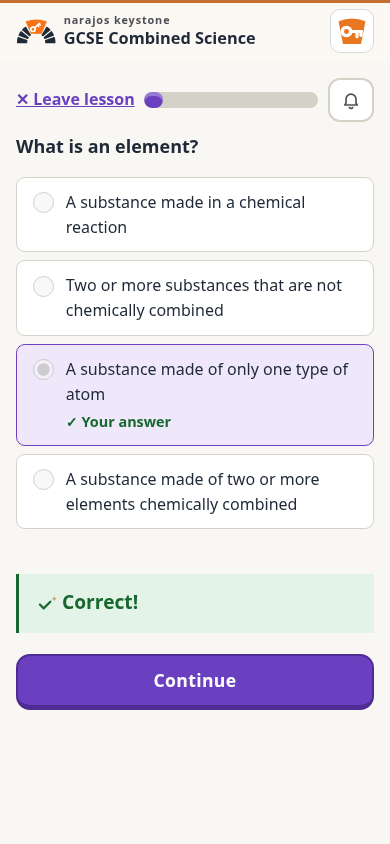
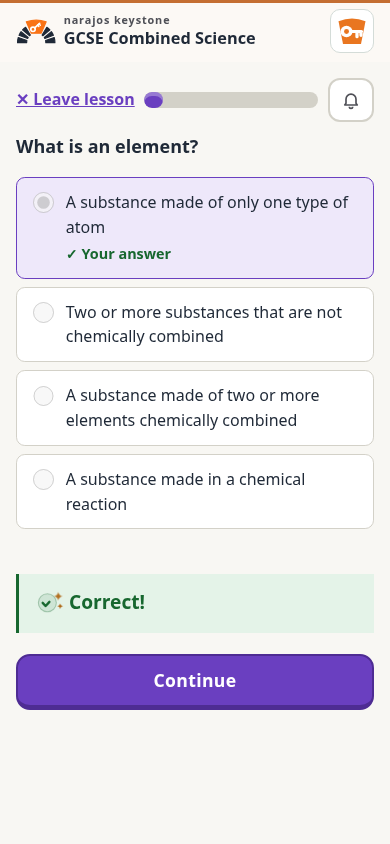
Give learning feedback a brighter, livelier finish

diff --git a/public/assets/learning-feedback.css b/public/assets/learning-feedback.css
@@ -1,6 +1,6 @@
 .learning-feedback {
   --feedback-green: var(--good, #17672f);
-  --feedback-gold: #a96614;
+  --feedback-gold: #ad630f;
 }
 
 .learning-feedback:not([data-learning-feedback="complete"]) {
@@ -9,22 +9,40 @@
 
 .learning-feedback__icon {
   display: inline-block;
-  width: 1.45rem;
-  height: 1.2rem;
-  margin-inline-end: .24rem;
-  vertical-align: -.25rem;
+  width: 1.9rem;
+  height: 1.55rem;
+  margin-inline-end: .22rem;
+  vertical-align: -.38rem;
   pointer-events: none;
+}
+
+.learning-feedback__mark {
+  color: var(--feedback-green);
+}
+
+[data-learning-feedback="complete"] .learning-feedback__mark {
+  color: var(--feedback-gold);
+}
+
+.learning-feedback__disc {
+  fill: currentColor;
+  fill-opacity: .10;
+  stroke: currentColor;
+  stroke-opacity: .3;
 }
 
 .learning-feedback__tick {
   fill: none;
-  stroke: var(--feedback-green);
+  stroke: currentColor;
   stroke-width: 2.3;
   stroke-linecap: round;
   stroke-linejoin: round;
 }
 
-.learning-feedback__star,
+.learning-feedback__star {
+  fill: currentColor;
+}
+
 .learning-feedback__accent {
   fill: var(--feedback-gold);
 }
@@ -39,29 +57,49 @@
 .learning-feedback__accent,
 .learning-feedback__glints {
   opacity: 0;
+}
+
+.learning-feedback__mark,
+.learning-feedback__accent,
+.learning-feedback__glints {
   transform-box: fill-box;
   transform-origin: center;
 }
 
 @supports (color: light-dark(black, white)) {
   .learning-feedback {
-    --feedback-gold: light-dark(#a96614, #e5ad60);
+    --feedback-gold: light-dark(#ad630f, #f5b965);
   }
 }
 
 @media (prefers-reduced-motion: no-preference) {
+  [data-feedback-animate] .learning-feedback__mark {
+    animation: learning-feedback-pop 480ms ease-out both;
+  }
+
   [data-feedback-animate] .learning-feedback__tick {
     animation: learning-feedback-tick 420ms ease-out both;
   }
 
-  [data-feedback-animate] .learning-feedback__accent {
-    animation: learning-feedback-sparkle 560ms ease-out both;
+  [data-feedback-animate] .learning-feedback__accent,
+  [data-feedback-animate] .learning-feedback__glints {
+    animation: learning-feedback-sparkle 620ms ease-out both;
   }
 
   [data-feedback-animate]:not([data-learning-feedback="correct"]) .learning-feedback__accent,
   [data-feedback-animate] .learning-feedback__glints {
-    animation: learning-feedback-sparkle 720ms ease-out both;
+    animation-duration: 740ms;
   }
+
+  [data-feedback-animate] .learning-feedback__accent--small {
+    animation-delay: 45ms;
+  }
+}
+
+@keyframes learning-feedback-pop {
+  from { transform: scale(.78); }
+  45% { transform: scale(1.11); }
+  to { transform: scale(1); }
 }
 
 @keyframes learning-feedback-tick {
@@ -70,15 +108,16 @@
 }
 
 @keyframes learning-feedback-sparkle {
-  from { opacity: 0; transform: scale(.5); }
-  35% { opacity: .9; transform: scale(1); }
-  to { opacity: 0; transform: scale(.85); }
+  from { opacity: 0; transform: scale(.45); }
+  36% { opacity: 1; transform: scale(1.14); }
+  to { opacity: 0; transform: scale(.72); }
 }
 
 @media (forced-colors: active) {
-  .learning-feedback__tick,
+  .learning-feedback__mark,
+  [data-learning-feedback="complete"] .learning-feedback__mark { color: CanvasText; }
+
   .learning-feedback__glints { stroke: CanvasText; }
 
-  .learning-feedback__star,
   .learning-feedback__accent { fill: CanvasText; }
 }

diff --git a/public/assets/learning-feedback.js b/public/assets/learning-feedback.js
@@ -6,10 +6,12 @@
     corrected: "You corrected your mistake!",
     complete: "Activity complete"
   };
-  const tick = '<path class="learning-feedback__tick" d="m5 11 4 4 8-8" pathLength="1"/>';
-  const star = '<path class="learning-feedback__star" d="M11 4c.7 4 2 5.3 6 6-4 .7-5.3 2-6 6-.7-4-2-5.3-6-6 4-.7 5.3-2 6-6Z"/>';
-  const accent = '<path class="learning-feedback__accent" d="M20 2c.3 1.9 1.1 2.7 3 3-1.9.3-2.7 1.1-3 3-.3-1.9-1.1-2.7-3-3 1.9-.3 2.7-1.1 3-3Z"/>';
-  const glints = '<path class="learning-feedback__glints" d="m3 5-1-2m17 13 2 1"/>';
+  const tick = '<path class="learning-feedback__tick" d="m8.5 13.5 2.8 3 5.6-6" pathLength="1"/>';
+  const star = '<path class="learning-feedback__star" d="M13 7.5c.7 3.8 2.2 5.3 6 6-3.8.7-5.3 2.2-6 6-.7-3.8-2.2-5.3-6-6 3.8-.7 5.3-2.2 6-6Z"/>';
+  const disc = '<circle class="learning-feedback__disc" cx="13" cy="13.5" r="8.7"/>';
+  const accents = '<path class="learning-feedback__accent" d="M24.5 2.5a5 5 0 0 0 4 4 5 5 0 0 0-4 4 5 5 0 0 0-4-4 5 5 0 0 0 4-4Z"/>' +
+    '<path class="learning-feedback__accent learning-feedback__accent--small" d="M26.5 14.5a3 3 0 0 0 2.5 2.5 3 3 0 0 0-2.5 2.5A3 3 0 0 0 24 17a3 3 0 0 0 2.5-2.5Z"/>';
+  const glints = '<path class="learning-feedback__glints" d="M5 5 3.4 3.6M4.4 17l-2 .8M20.2 20.6l2 1.6"/>';
 
   function praiseFor(key) {
     let index = Number.isSafeInteger(key) ? key : 0;
@@ -23,8 +25,9 @@
     if (kind !== "correct" && !Object.hasOwn(labels, kind)) return "";
     const text = String(label ?? (kind === "correct" ? praiseFor(key) : labels[kind]))
       .replace(/&/g, "&amp;").replace(/</g, "&lt;").replace(/>/g, "&gt;");
-    const icon = (kind === "complete" ? star : tick) + accent + (kind === "correct" ? "" : glints);
-    return `<span class="learning-feedback" data-learning-feedback="${kind}"${animate ? " data-feedback-animate" : ""}><svg class="learning-feedback__icon" viewBox="0 0 24 20" aria-hidden="true" focusable="false">${icon}</svg>${text}</span>`;
+    const mark = `<g class="learning-feedback__mark">${disc}${kind === "complete" ? star : tick}</g>`;
+    const icon = mark + accents + (kind === "correct" ? "" : glints);
+    return `<span class="learning-feedback" data-learning-feedback="${kind}"${animate ? " data-feedback-animate" : ""}><svg class="learning-feedback__icon" viewBox="0 0 32 26" aria-hidden="true" focusable="false">${icon}</svg>${text}</span>`;
   }
 
   root.KeystoneFeedback = { markup };
